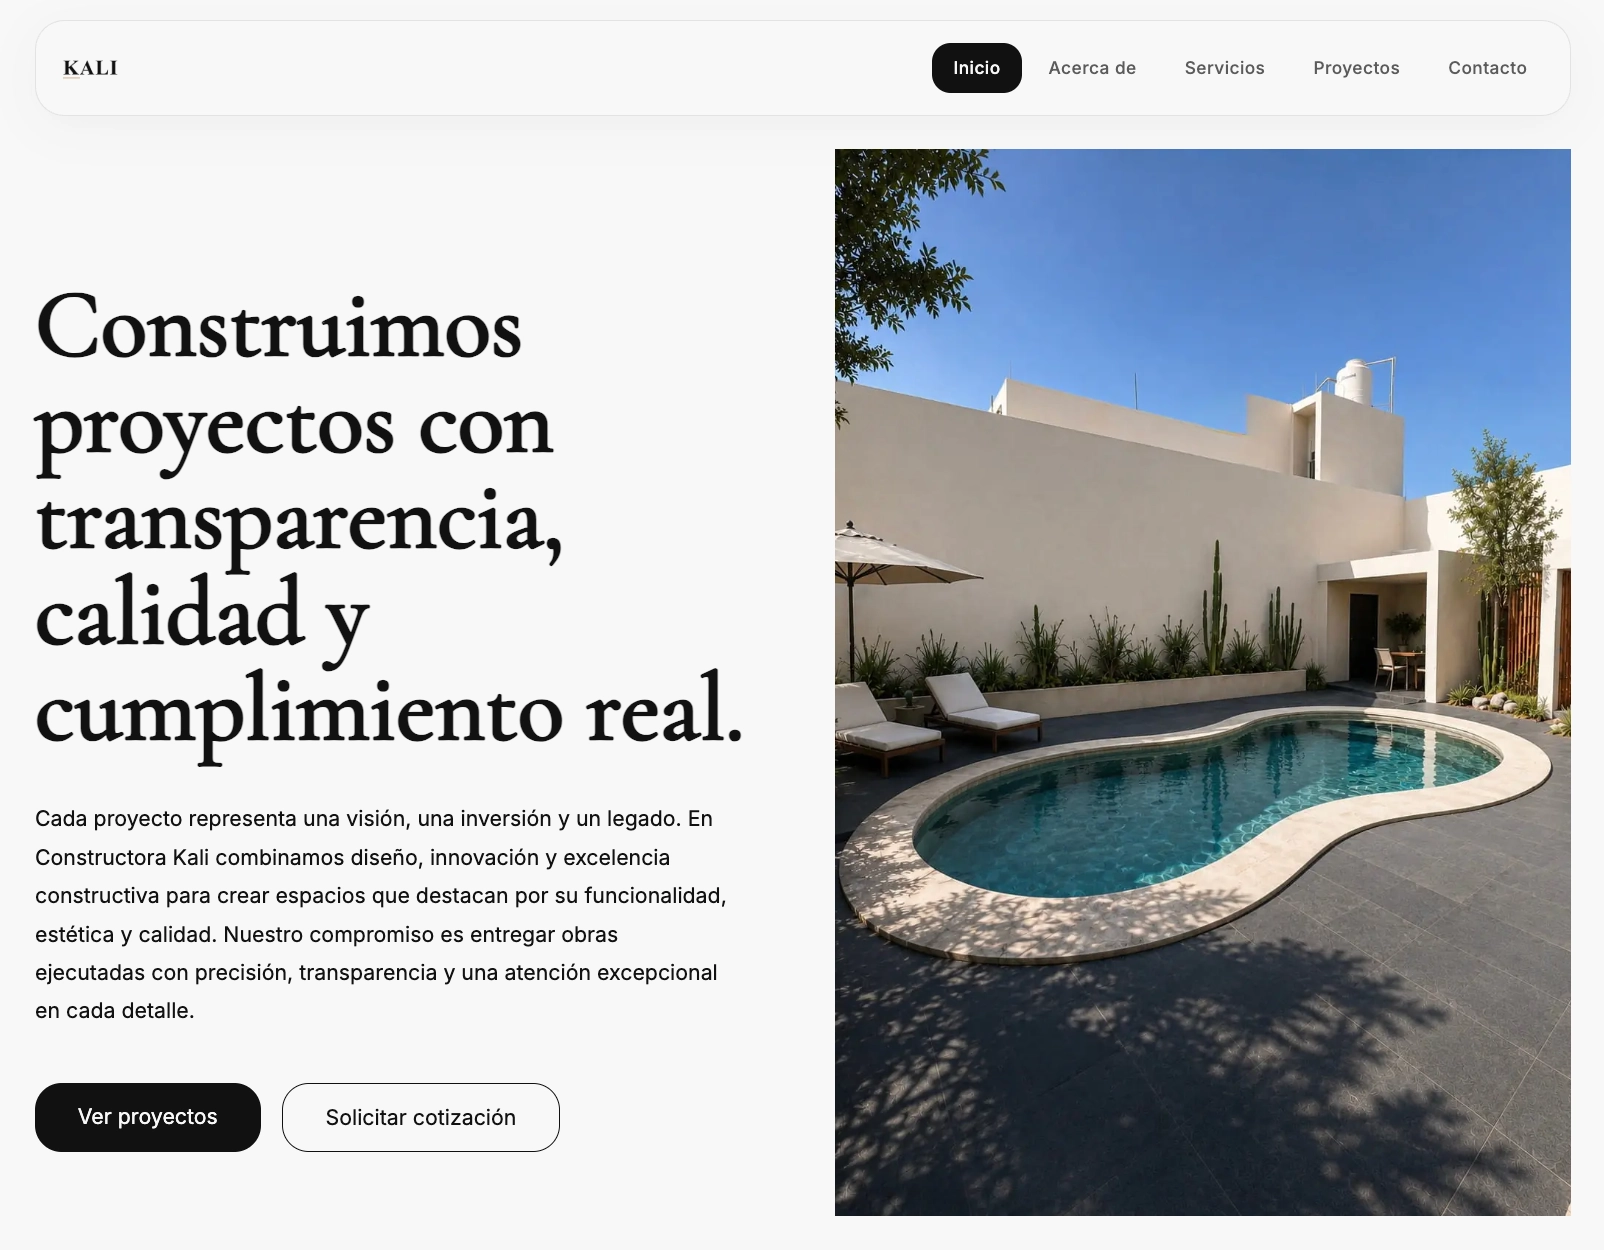
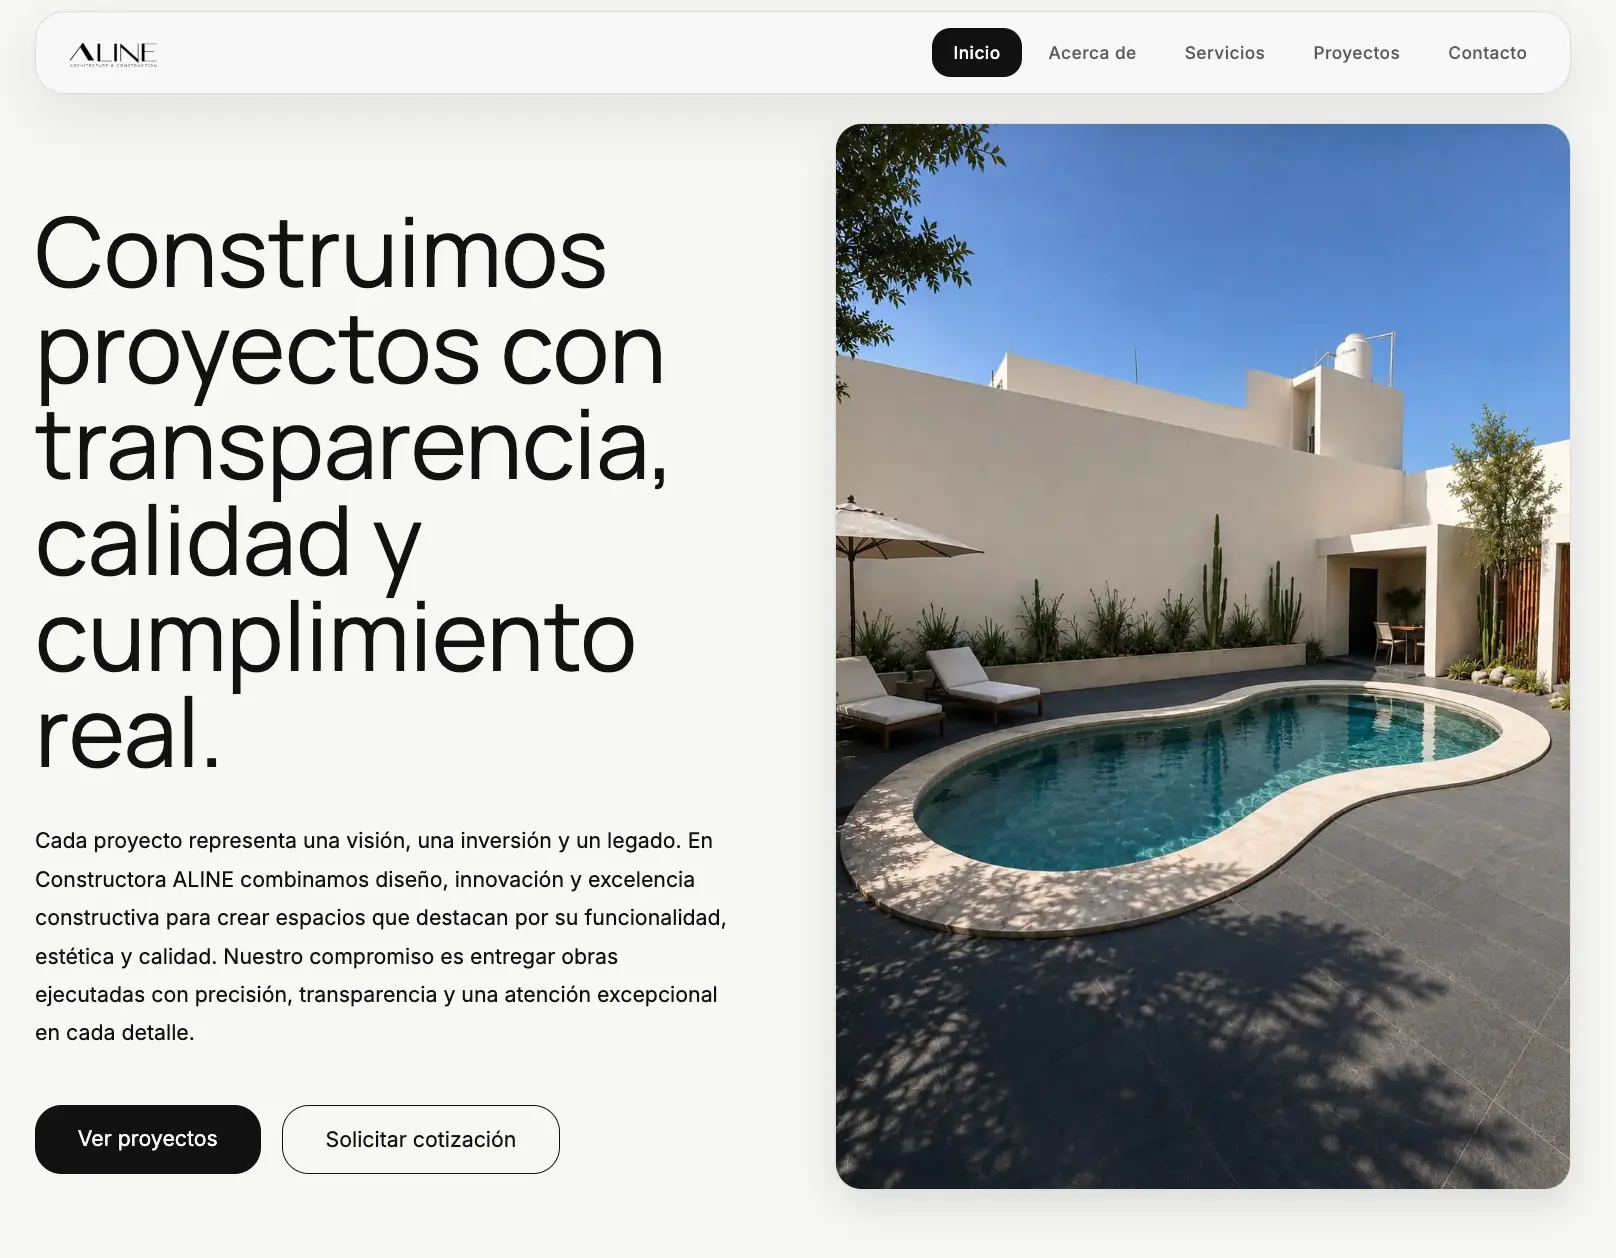
Modifica estructura de cv

diff --git a/src/features/profile/profile.data.ts b/src/features/profile/profile.data.ts
@@ -28,13 +28,13 @@ export const profile: Profile = {
   linkedInUrl: 'https://www.linkedin.com/in/luiss-olea/',
   githubUrl: 'https://github.com/luisolea1',
   cvUrl: cvPdf,
-  cvSummary: 'Desarrollador Frontend Junior que disfruta transformar diseños e ideas visuales en interfaces responsivas para sitios comerciales y catálogos digitales. Construyo aplicaciones con React utilizando componentes reutilizables, navegación fluida e integración de APIs REST. Trabajo con JavaScript, HTML5, CSS3, Vite y Git, cuidando la accesibilidad y el rendimiento.',
+  cvSummary: 'Desarrollador Frontend Junior que disfruta transformar diseños e ideas visuales en interfaces responsivas para sitios comerciales y catálogos digitales. También soy licenciado en Administración de las Organizaciones, una formación que complementa mi experiencia trabajando con clientes y coordinando equipos. Construyo aplicaciones con React utilizando componentes reutilizables, navegación fluida e integración de APIs REST.',
   education: [
     {
       title: 'Bootcamp en Desarrollo Full Stack',
       institution: 'TripleTen',
       period: '2025 – 2026',
-      details: 'HTML, CSS, Git, GitHub, JavaScript, React, Node.js, Express y MongoDB.',
+      details: 'Programa intensivo de 1 año con enfoque en desarrollo web y aplicaciones. Aprendizaje práctico mediante proyectos individuales y colaborativos, con énfasis en la resolución de problemas y la implementación de buenas prácticas de desarrollo.',
     },
     {
       title: 'Licenciatura en Administración de las Organizaciones',

diff --git a/src/features/cv/CvPage.tsx b/src/features/cv/CvPage.tsx
@@ -18,6 +18,9 @@ export function CvPage() {
         <h2 id="cv-profile" className="cv-page__section-title">Perfil</h2>
         <p className="cv-page__text">{profile.cvSummary ?? '[RESUMEN PROFESIONAL]'}</p>
       </section>
+      <section id="cv-skills" className="cv-page__section cv-page__section--skills" aria-labelledby="skills-abilities skills-stacks skills-tools">
+        <SkillsGrid />
+      </section>
       <section className="cv-page__section" aria-labelledby="cv-experience">
         <h2 id="cv-experience" className="cv-page__section-title">Experiencia</h2>
         <div className="cv-page__experience">
@@ -35,12 +38,9 @@ export function CvPage() {
             <h3 className="cv-page__education-title">{education.title}</h3>
             <p className="cv-page__text">{education.institution}</p>
             <p className="cv-page__period cv-page__text">{education.period}</p>
-            {education.details && <p className="cv-page__education-details cv-page__text">Tecnologías: {education.details}</p>}
+            {education.details && <p className="cv-page__education-details cv-page__text">{education.details}</p>}
           </div>)}
         </div>
-      </section>
-      <section id="cv-skills" className="cv-page__section cv-page__section--skills" aria-labelledby="skills-abilities skills-stacks skills-tools">
-        <SkillsGrid />
       </section>
     </div>
   )
